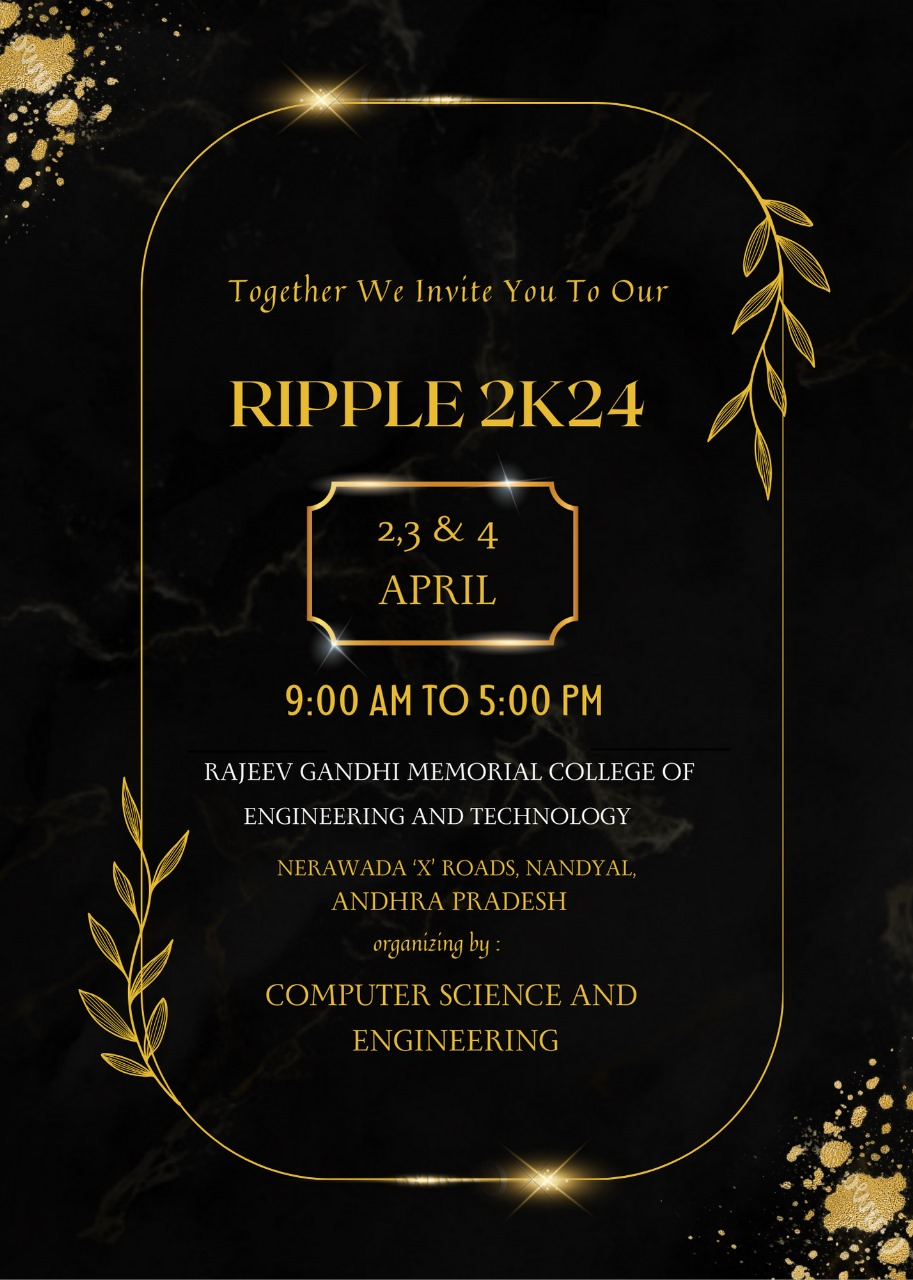
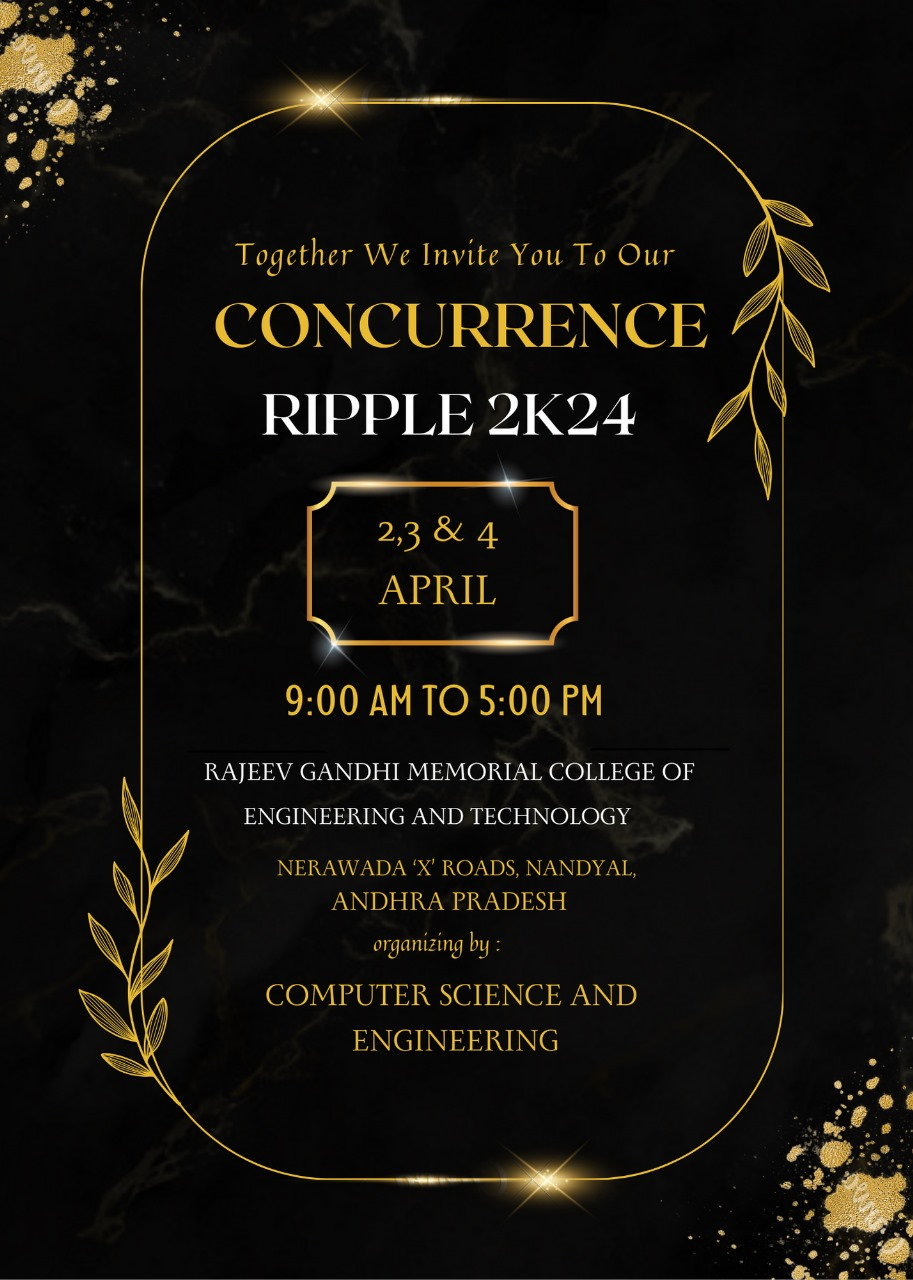
event names and prize and transaction imgs

Changed region(s): [[0.2147, 0.1875, 0.7667, 0.3438]]

diff --git a/Forms/DebugForm.html b/Forms/DebugForm.html
@@ -40,7 +40,7 @@
                         <span class="d-flex flex-row align-items-center"><img class="ripple-logo"
                                 src="https://res.cloudinary.com/sivapullaiah/image/upload/v1708919298/WhatsApp_Image_2024-02-19_at_21.27.18_2fb18051_te5ahv.jpg"
                                 alt="LOGO">
-                            <h1 class="main-heading ml-3">Ripple 2k24</h1>
+                            <h1 class="main-heading ml-3">CONCURRENCE RIPPLE 2K24</h1>
                         </span>
                     </a>
                     <div class="why-register-content mt-5">
@@ -72,7 +72,7 @@
                     </ul>
 
                     <div>
-                        <h3 class="Gradiant-bg">Price money</h3>
+                        <h3 class="Gradiant-bg">Prize money</h3>
                     </div>
 
                     <div class="container col-12 d-flex flex-row justify-content-start align-items-center">
@@ -80,22 +80,22 @@
                             <img class="winner-img"
                                 src="https://res.cloudinary.com/sivapullaiah/image/upload/v1709565102/runner_scc3eg.png"
                                 alt="runner">
-                            <p class="text-center" style="color: #bebebe;">Runner <br>
-                                Price Money: ₹1500</p>
+                            <!-- <p class="text-center" style="color: #bebebe;">Runner <br>
+                                Price Money: ₹1500</p> -->
                         </div>
                         <div class="d-flex flex-column justify-content-center align-items-center winner">
                             <img class="winner-img"
                                 src="https://res.cloudinary.com/sivapullaiah/image/upload/v1709565102/winnner_fxjho3.png"
                                 alt="winner">
-                            <p class="text-center" style="color: #ffda78;">Winner <br>
-                                Price Money: ₹3000</p>
+                            <!-- <p class="text-center" style="color: #ffda78;">Winner <br>
+                                Price Money: ₹3000</p> -->
                         </div>
                         <div class="d-flex flex-column justify-content-center align-items-center runner-up">
                             <img class="winner-img"
                                 src="https://res.cloudinary.com/sivapullaiah/image/upload/v1709565102/runnerup_tlneck.png"
                                 alt="runner-up">
-                            <p class="text-center" style="color: #c87339;">Runner Up <br>
-                                Price Money: ₹1500</p>
+                            <!-- <p class="text-center" style="color: #c87339;">Runner Up <br>
+                                Price Money: ₹1500</p> -->
                         </div>
                     </div>
 

diff --git a/Forms/codingForm.html b/Forms/codingForm.html
@@ -40,7 +40,7 @@
                         <span class="d-flex flex-row align-items-center"><img class="ripple-logo"
                                 src="https://res.cloudinary.com/sivapullaiah/image/upload/v1708919298/WhatsApp_Image_2024-02-19_at_21.27.18_2fb18051_te5ahv.jpg"
                                 alt="LOGO">
-                            <h1 class="main-heading ml-3">Ripple 2k24</h1>
+                            <h1 class="main-heading ml-3">CONCURRENCE RIPPLE 2K24</h1>
                         </span>
                     </a>
                     <div class="why-register-content mt-5">
@@ -72,7 +72,7 @@
                     </ul>
 
                     <div>
-                        <h3 class="Gradiant-bg">Price money</h3>
+                        <h3 class="Gradiant-bg">Prize money</h3>
                     </div>
 
                     <div class="container col-12 d-flex flex-row justify-content-start align-items-center">
@@ -80,22 +80,22 @@
                             <img class="winner-img"
                                 src="https://res.cloudinary.com/sivapullaiah/image/upload/v1709565102/runner_scc3eg.png"
                                 alt="runner">
-                            <p class="text-center" style="color: #bebebe;">Runner <br>
-                                Price Money: ₹1500</p>
+                            <!-- <p class="text-center" style="color: #bebebe;">Runner <br>
+                                Price Money: ₹1500</p> -->
                         </div>
                         <div class="d-flex flex-column justify-content-center align-items-center winner">
                             <img class="winner-img"
                                 src="https://res.cloudinary.com/sivapullaiah/image/upload/v1709565102/winnner_fxjho3.png"
                                 alt="winner">
-                            <p class="text-center" style="color: #ffda78;">Winner <br>
-                                Price Money: ₹3000</p>
+                            <!-- <p class="text-center" style="color: #ffda78;">Winner <br>
+                                Price Money: ₹3000</p> -->
                         </div>
                         <div class="d-flex flex-column justify-content-center align-items-center runner-up">
                             <img class="winner-img"
                                 src="https://res.cloudinary.com/sivapullaiah/image/upload/v1709565102/runnerup_tlneck.png"
                                 alt="runner-up">
-                            <p class="text-center" style="color: #c87339;">Runner Up <br>
-                                Price Money: ₹1500</p>
+                            <!-- <p class="text-center" style="color: #c87339;">Runner Up <br>
+                                Price Money: ₹1500</p> -->
                         </div>
                     </div>
 

diff --git a/Forms/paperForm.html b/Forms/paperForm.html
@@ -40,7 +40,7 @@
                         <span class="d-flex flex-row align-items-center"><img class="ripple-logo"
                                 src="https://res.cloudinary.com/sivapullaiah/image/upload/v1708919298/WhatsApp_Image_2024-02-19_at_21.27.18_2fb18051_te5ahv.jpg"
                                 alt="LOGO">
-                            <h1 class="main-heading ml-3">Ripple 2k24</h1>
+                            <h1 class="main-heading ml-3">CONCURRENCE RIPPLE 2K24</h1>
                         </span>
                     </a>
                     <div class="why-register-content mt-5">
@@ -72,7 +72,7 @@
                     </ul>
 
                     <div>
-                        <h3 class="Gradiant-bg">Price money</h3>
+                        <h3 class="Gradiant-bg">Prize money</h3>
                     </div>
 
                     <div class="container col-12 d-flex flex-row justify-content-start align-items-center">
@@ -80,22 +80,22 @@
                             <img class="winner-img"
                                 src="https://res.cloudinary.com/sivapullaiah/image/upload/v1709565102/runner_scc3eg.png"
                                 alt="runner">
-                            <p class="text-center" style="color: #bebebe;">Runner <br>
-                                Price Money: ₹1500</p>
+                            <!-- <p class="text-center" style="color: #bebebe;">Runner <br>
+                                Price Money: ₹1500</p> -->
                         </div>
                         <div class="d-flex flex-column justify-content-center align-items-center winner">
                             <img class="winner-img"
                                 src="https://res.cloudinary.com/sivapullaiah/image/upload/v1709565102/winnner_fxjho3.png"
                                 alt="winner">
-                            <p class="text-center" style="color: #ffda78;">Winner <br>
-                                Price Money: ₹3000</p>
+                            <!-- <p class="text-center" style="color: #ffda78;">Winner <br>
+                                Price Money: ₹3000</p> -->
                         </div>
                         <div class="d-flex flex-column justify-content-center align-items-center runner-up">
                             <img class="winner-img"
                                 src="https://res.cloudinary.com/sivapullaiah/image/upload/v1709565102/runnerup_tlneck.png"
                                 alt="runner-up">
-                            <p class="text-center" style="color: #c87339;">Runner Up <br>
-                                Price Money: ₹1500</p>
+                            <!-- <p class="text-center" style="color: #c87339;">Runner Up <br>
+                                Price Money: ₹1500</p> -->
                         </div>
                     </div>
 

diff --git a/Forms/posterForm.html b/Forms/posterForm.html
@@ -40,7 +40,7 @@
                         <span class="d-flex flex-row align-items-center"><img class="ripple-logo"
                                 src="https://res.cloudinary.com/sivapullaiah/image/upload/v1708919298/WhatsApp_Image_2024-02-19_at_21.27.18_2fb18051_te5ahv.jpg"
                                 alt="LOGO">
-                            <h1 class="main-heading ml-3">Ripple 2k24</h1>
+                            <h1 class="main-heading ml-3">CONCURRENCE RIPPLE 2K24</h1>
                         </span>
                     </a>
                     <div class="why-register-content mt-5">
@@ -72,7 +72,7 @@
                     </ul>
 
                     <div>
-                        <h3 class="Gradiant-bg">Price money</h3>
+                        <h3 class="Gradiant-bg">Prize money</h3>
                     </div>
 
                     <div class="container col-12 d-flex flex-row justify-content-start align-items-center">
@@ -80,22 +80,22 @@
                             <img class="winner-img"
                                 src="https://res.cloudinary.com/sivapullaiah/image/upload/v1709565102/runner_scc3eg.png"
                                 alt="runner">
-                            <p class="text-center" style="color: #bebebe;">Runner <br>
-                                Price Money: ₹1500</p>
+                            <!-- <p class="text-center" style="color: #bebebe;">Runner <br>
+                                Price Money: ₹1500</p> -->
                         </div>
                         <div class="d-flex flex-column justify-content-center align-items-center winner">
                             <img class="winner-img"
                                 src="https://res.cloudinary.com/sivapullaiah/image/upload/v1709565102/winnner_fxjho3.png"
                                 alt="winner">
-                            <p class="text-center" style="color: #ffda78;">Winner <br>
-                                Price Money: ₹3000</p>
+                            <!-- <p class="text-center" style="color: #ffda78;">Winner <br>
+                                Price Money: ₹3000</p> -->
                         </div>
                         <div class="d-flex flex-column justify-content-center align-items-center runner-up">
                             <img class="winner-img"
                                 src="https://res.cloudinary.com/sivapullaiah/image/upload/v1709565102/runnerup_tlneck.png"
                                 alt="runner-up">
-                            <p class="text-center" style="color: #c87339;">Runner Up <br>
-                                Price Money: ₹1500</p>
+                            <!-- <p class="text-center" style="color: #c87339;">Runner Up <br>
+                                Price Money: ₹1500</p> -->
                         </div>
                     </div>
 

diff --git a/Forms/quizForm.html b/Forms/quizForm.html
@@ -40,7 +40,7 @@
                         <span class="d-flex flex-row align-items-center"><img class="ripple-logo"
                                 src="https://res.cloudinary.com/sivapullaiah/image/upload/v1708919298/WhatsApp_Image_2024-02-19_at_21.27.18_2fb18051_te5ahv.jpg"
                                 alt="LOGO">
-                            <h1 class="main-heading ml-3">Ripple 2k24</h1>
+                            <h1 class="main-heading ml-3">CONCURRENCE RIPPLE 2K24</h1>
                         </span>
                     </a>
                     <div class="why-register-content mt-5">
@@ -72,7 +72,7 @@
                     </ul>
 
                     <div>
-                        <h3 class="Gradiant-bg">Price money</h3>
+                        <h3 class="Gradiant-bg">Prize money</h3>
                     </div>
 
                     <div class="container col-12 d-flex flex-row justify-content-start align-items-center">
@@ -80,22 +80,22 @@
                             <img class="winner-img"
                                 src="https://res.cloudinary.com/sivapullaiah/image/upload/v1709565102/runner_scc3eg.png"
                                 alt="runner">
-                            <p class="text-center" style="color: #bebebe;">Runner <br>
-                                Price Money: ₹1500</p>
+                            <!-- <p class="text-center" style="color: #bebebe;">Runner <br>
+                                Price Money: ₹1500</p> -->
                         </div>
                         <div class="d-flex flex-column justify-content-center align-items-center winner">
                             <img class="winner-img"
                                 src="https://res.cloudinary.com/sivapullaiah/image/upload/v1709565102/winnner_fxjho3.png"
                                 alt="winner">
-                            <p class="text-center" style="color: #ffda78;">Winner <br>
-                                Price Money: ₹3000</p>
+                            <!-- <p class="text-center" style="color: #ffda78;">Winner <br>
+                                Price Money: ₹3000</p> -->
                         </div>
                         <div class="d-flex flex-column justify-content-center align-items-center runner-up">
                             <img class="winner-img"
                                 src="https://res.cloudinary.com/sivapullaiah/image/upload/v1709565102/runnerup_tlneck.png"
                                 alt="runner-up">
-                            <p class="text-center" style="color: #c87339;">Runner Up <br>
-                                Price Money: ₹1500</p>
+                            <!-- <p class="text-center" style="color: #c87339;">Runner Up <br>
+                                Price Money: ₹1500</p> -->
                         </div>
                     </div>
 

diff --git a/Forms/webdesign.html b/Forms/webdesign.html
@@ -40,7 +40,7 @@
                         <span class="d-flex flex-row align-items-center"><img class="ripple-logo"
                                 src="https://res.cloudinary.com/sivapullaiah/image/upload/v1708919298/WhatsApp_Image_2024-02-19_at_21.27.18_2fb18051_te5ahv.jpg"
                                 alt="LOGO">
-                            <h1 class="main-heading ml-3">Ripple 2k24</h1>
+                            <h1 class="main-heading ml-3">CONCURRENCE RIPPLE 2K24</h1>
                         </span>
                     </a>
                     <div class="why-register-content mt-5">
@@ -72,7 +72,7 @@
                     </ul>
 
                     <div>
-                        <h3 class="Gradiant-bg">Price money</h3>
+                        <h3 class="Gradiant-bg">Prize money</h3>
                     </div>
 
                     <div class="container col-12 d-flex flex-row justify-content-start align-items-center">
@@ -80,22 +80,22 @@
                             <img class="winner-img"
                                 src="https://res.cloudinary.com/sivapullaiah/image/upload/v1709565102/runner_scc3eg.png"
                                 alt="runner">
-                            <p class="text-center" style="color: #bebebe;">Runner <br>
-                                Price Money: ₹1500</p>
+                            <!-- <p class="text-center" style="color: #bebebe;">Runner <br>
+                                Price Money: ₹1500</p> -->
                         </div>
                         <div class="d-flex flex-column justify-content-center align-items-center winner">
                             <img class="winner-img"
                                 src="https://res.cloudinary.com/sivapullaiah/image/upload/v1709565102/winnner_fxjho3.png"
                                 alt="winner">
-                            <p class="text-center" style="color: #ffda78;">Winner <br>
-                                Price Money: ₹3000</p>
+                            <!-- <p class="text-center" style="color: #ffda78;">Winner <br>
+                                Price Money: ₹3000</p> -->
                         </div>
                         <div class="d-flex flex-column justify-content-center align-items-center runner-up">
                             <img class="winner-img"
                                 src="https://res.cloudinary.com/sivapullaiah/image/upload/v1709565102/runnerup_tlneck.png"
                                 alt="runner-up">
-                            <p class="text-center" style="color: #c87339;">Runner Up <br>
-                                Price Money: ₹1500</p>
+                            <!-- <p class="text-center" style="color: #c87339;">Runner Up <br>
+                                Price Money: ₹1500</p> -->
                         </div>
                     </div>
 

diff --git a/Forms/workshopForm.html b/Forms/workshopForm.html
@@ -40,7 +40,7 @@
                         <span class="d-flex flex-row align-items-center"><img class="ripple-logo"
                                 src="https://res.cloudinary.com/sivapullaiah/image/upload/v1708919298/WhatsApp_Image_2024-02-19_at_21.27.18_2fb18051_te5ahv.jpg"
                                 alt="LOGO">
-                            <h1 class="main-heading ml-3">Ripple 2k24</h1>
+                            <h1 class="main-heading ml-3">CONCURRENCE RIPPLE 2K24</h1>
                         </span>
                     </a>
                     <div class="why-register-content mt-5">
@@ -72,7 +72,7 @@
                     </ul>
 
                     <div>
-                        <h3 class="Gradiant-bg">Price money</h3>
+                        <h3 class="Gradiant-bg">Prize money</h3>
                     </div>
 
                     <div class="container col-12 d-flex flex-row justify-content-start align-items-center">
@@ -80,22 +80,22 @@
                             <img class="winner-img"
                                 src="https://res.cloudinary.com/sivapullaiah/image/upload/v1709565102/runner_scc3eg.png"
                                 alt="runner">
-                            <p class="text-center" style="color: #bebebe;">Runner <br>
-                                Price Money: ₹1500</p>
+                            <!-- <p class="text-center" style="color: #bebebe;">Runner <br>
+                                Price Money: ₹1500</p> -->
                         </div>
                         <div class="d-flex flex-column justify-content-center align-items-center winner">
                             <img class="winner-img"
                                 src="https://res.cloudinary.com/sivapullaiah/image/upload/v1709565102/winnner_fxjho3.png"
                                 alt="winner">
-                            <p class="text-center" style="color: #ffda78;">Winner <br>
-                                Price Money: ₹3000</p>
+                            <!-- <p class="text-center" style="color: #ffda78;">Winner <br>
+                                Price Money: ₹3000</p> -->
                         </div>
                         <div class="d-flex flex-column justify-content-center align-items-center runner-up">
                             <img class="winner-img"
                                 src="https://res.cloudinary.com/sivapullaiah/image/upload/v1709565102/runnerup_tlneck.png"
                                 alt="runner-up">
-                            <p class="text-center" style="color: #c87339;">Runner Up <br>
-                                Price Money: ₹1500</p>
+                            <!-- <p class="text-center" style="color: #c87339;">Runner Up <br>
+                                Price Money: ₹1500</p> -->
                         </div>
                     </div>
 

diff --git a/Forms/transactionSteps.html b/Forms/transactionSteps.html
@@ -11,6 +11,15 @@
     <h1>Transaction steps here
         image steps to do payment and get Transaction id
     </h1>
+    <h1>For Phonepay transactions.</h1>
+    <div class="container">
+        <img src="..\img\forms\phonepay1.jpg" alt="img1" height="220">
+        <img src="..\img\forms\phonepay2.jpg" alt="img2" height="220">
+    </div>
+    <h1>For G Pay Transactions.</h1>
+    <div class="container">
+        <img src="..\img\forms\gpay.jpg" alt="gpay" height="220">
+    </div>
 </body>
 
 </html>

diff --git a/contact.html b/contact.html
@@ -160,7 +160,7 @@
             <td>Workshop</td>
             <td>B. Venu Gopal <br>D. Deepthi</td>
             <td>9959558637 <br>9573083054</td>
-            <td>beshtavenu225@gmail.com <br>dagududeepthi@gmail.com</td>
+            <td>besthavenu225@gmail.com <br>dagududeepthi@gmail.com</td>
           </tr>
           <tr>
             <td>7.</td>
